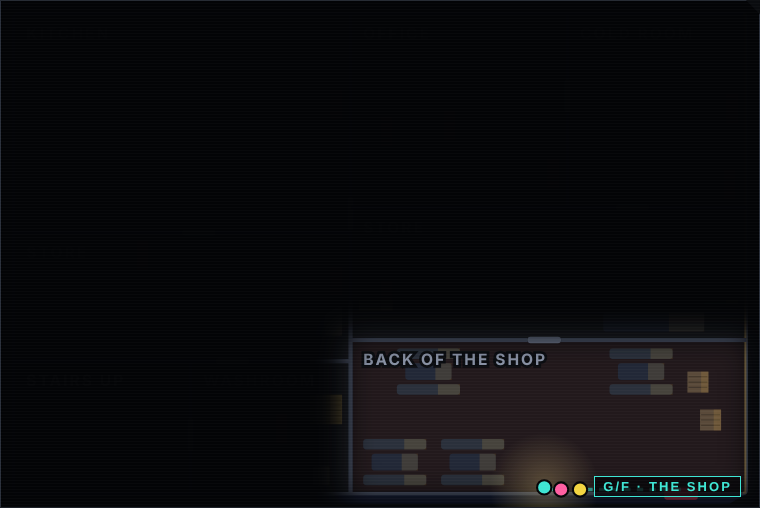
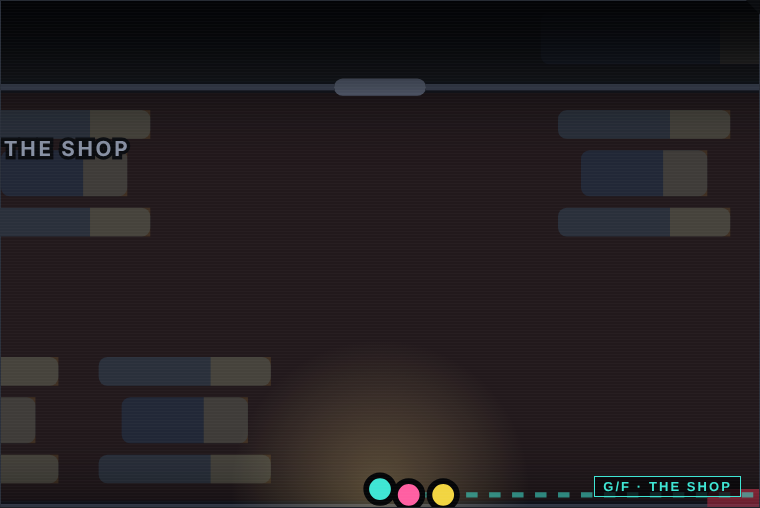
Mockup: close camera inside the dark floors
The camera sits on the crew, about one room in frame, kept inside the
building so its outline is never seen; a Whole floor toggle to compare.

diff --git a/docs/mockups/2026-11-23-dark-floors.html b/docs/mockups/2026-11-23-dark-floors.html
@@ -3151,11 +3151,15 @@ button.ffo-tag > span { color: var(--muted); font-size: 0.7rem; }
   .stills { display: grid; grid-template-columns: 1fr; gap: 12px; max-width: 1400px; margin-top: 24px; }
   @media (min-width: 900px) { .stills { grid-template-columns: repeat(3, 1fr); } }
   .stills figcaption { font: 12px monospace; color: #8a93a6; margin-bottom: 4px; }
+  .stage.close .sp-label { font-size: 3.6px; stroke-width: 1.2px; }
+  .stage.close .sp-wall { stroke-width: 1.1; }
+  .stage.close .sp-building { stroke-width: .8; }
+  .controls { margin: 10px 0; display: flex; gap: 8px; } .controls button.on { background: #3ee6d4; color: #050608; }
   .controls { margin: 10px 0; } .controls button { font: inherit; color: #3ee6d4; background: none; border: 1px solid #3ee6d4; padding: 10px 16px; min-height: 44px; cursor: pointer; }
 </style></head><body>
 <h1>Inside, in the dark · mockup</h1>
 <p class="lede">No street, no outside: the whole map is one floor. Every room is dark until the crew walks in. An open door gives a glimpse of the room beyond, and a hallway lights only where they've walked. At the stairs the map changes to the floor above. The floors are generated, the same from the same seed.</p>
-<div class="stage" id="stage">
+<div class="stage close" id="stage">
   <div class="floor on" data-floor="0"><svg class="siteplan" viewBox="0 0 360 240" role="img" aria-label="A floor of a building">
     <rect width="360" height="240" fill="#0b0d11"/>
     
@@ -3218,7 +3222,7 @@ button.ffo-tag > span { color: var(--muted); font-size: 0.7rem; }
   <div class="stamp" id="stamp">UP TO 1/F</div>
 </div>
 <div class="feed" id="feed"></div>
-<div class="controls"><button id="replay">Play again</button></div>
+<div class="controls"><button id="replay">Play again</button><button id="close" class="on">Close camera</button><button id="whole">Whole floor</button></div>
 <script>
 const FLOORS = [{"title":"G/F · the shop","rooms":[{"x":6,"y":6,"w":160,"h":104},{"x":6,"y":110,"w":160,"h":61},{"x":6,"y":171,"w":84,"h":63},{"x":90,"y":171,"w":76,"h":63},{"x":166,"y":6,"w":103,"h":92},{"x":269,"y":6,"w":85,"h":92},{"x":166,"y":98,"w":188,"h":63},{"x":166,"y":161,"w":188,"h":73}],"doors":[[166,101],[110,171],[94,110],[90,206],[300,98],[269,45],[258,161]],"route":[[323,232],[258,232],[258,169],[258,153],[258,101],[174,101],[158,101],[94,101],[94,102],[94,118],[110,118],[110,163],[110,179],[110,206],[98,206],[82,206],[28,206],[28,203]],"hall":-1},{"title":"1/F · upstairs","rooms":[{"x":6,"y":6,"w":84,"h":228},{"x":90,"y":142,"w":264,"h":32},{"x":90,"y":6,"w":89,"h":136},{"x":179,"y":6,"w":64,"h":136},{"x":243,"y":6,"w":111,"h":136},{"x":90,"y":174,"w":77,"h":60},{"x":167,"y":174,"w":89,"h":60},{"x":256,"y":174,"w":98,"h":60}],"doors":[[106,142],[213,142],[259,142],[106,174],[198,174],[311,174],[90,158]],"route":[[28,158],[82,158],[98,158],[311,158],[311,166],[311,182],[305,182],[305,204]],"hall":1}];
 const NS = 'http://www.w3.org/2000/svg';
@@ -3245,8 +3249,8 @@ function setup(i) {
   const torch = el('circle', { r: 26, fill: 'url(#dkt' + i + ')', style: 'mix-blend-mode:screen' }, layer);
   const tg = el('radialGradient', { id: 'dkt' + i }, defs);
   el('stop', { offset: 0, 'stop-color': '#f2d27a', 'stop-opacity': .28 }, tg); el('stop', { offset: 1, 'stop-color': '#f2d27a', 'stop-opacity': 0 }, tg);
-  const walked = el('polyline', { fill: 'none', stroke: '#3ee6d4', 'stroke-width': 1.6, 'stroke-opacity': .55, 'stroke-dasharray': '3 3' }, layer);
-  const crew = [0, 1, 2].map((k) => el('circle', { r: 3.4, fill: ['#3ee6d4', '#ff5fa2', '#f2d541'][k], stroke: '#050608', 'stroke-width': 1 }, layer));
+  const walked = el('polyline', { fill: 'none', stroke: '#3ee6d4', 'stroke-width': 0.9, 'stroke-opacity': .55, 'stroke-dasharray': '2 2' }, layer);
+  const crew = [0, 1, 2].map((k) => el('circle', { r: 2.4, fill: ['#3ee6d4', '#ff5fa2', '#f2d541'][k], stroke: '#050608', 'stroke-width': 1 }, layer));
   return { f, rooms, trail, glimpses, torch, walked, crew, seen: new Set(), glimpsed: new Set(), lastTrail: null };
 }
 
@@ -3266,7 +3270,7 @@ const LINES = [
 ];
 function step(S, d) {
   const p = along(S.f.route, d);
-  S.crew.forEach((c, k) => { const q = along(S.f.route, Math.max(0, d - k * 9)); c.setAttribute('cx', q[0]); c.setAttribute('cy', q[1]); });
+  S.crew.forEach((c, k) => { const q = along(S.f.route, Math.max(0, d - k * 6)); c.setAttribute('cx', q[0]); c.setAttribute('cy', q[1]); });
   S.torch.setAttribute('cx', p[0]); S.torch.setAttribute('cy', p[1]);
   const pts = []; for (let x = 0; x <= d; x += 4) pts.push(along(S.f.route, x)); pts.push(p);
   S.walked.setAttribute('points', pts.map((q) => q.join(',')).join(' '));
@@ -3283,6 +3287,18 @@ function step(S, d) {
   return p;
 }
 
+// the camera: close on the crew (a room or so on screen), eased; or the whole floor
+const VIEW = { w: 132, h: 88 };
+let close = true, cam = null;
+function aim(i, p, snap) {
+  const svg = document.querySelector('[data-floor="' + i + '"] svg');
+  if (!close) { svg.setAttribute('viewBox', '0 0 360 240'); return; }
+  if (!cam || snap) cam = [...p];
+  cam[0] += (p[0] - cam[0]) * 0.08; cam[1] += (p[1] - cam[1]) * 0.08;
+  if (snap) cam = [...p];
+  const v = [Math.min(Math.max(cam[0], 6 + VIEW.w / 2), 354 - VIEW.w / 2), Math.min(Math.max(cam[1], 6 + VIEW.h / 2), 234 - VIEW.h / 2)];
+  svg.setAttribute('viewBox', (v[0] - VIEW.w / 2) + ' ' + (v[1] - VIEW.h / 2) + ' ' + VIEW.w + ' ' + VIEW.h);
+}
 let run = 0;
 async function play() {
   const me = ++run;
@@ -3295,7 +3311,7 @@ async function play() {
       const tick = (now) => {
         if (me !== run) return;
         const d = Math.min(T, ((now - t0) / 1000) * SPEED);
-        const p = step(S, d);
+        const p = step(S, d); aim(i, p, d === 0);
         // a line when they step into a named room
         const svg = document.querySelector('[data-floor="' + i + '"] svg');
         for (const [name, text] of LINES) {
@@ -3316,9 +3332,14 @@ window.jumpTo = (i, share) => {
   run++;
   document.querySelectorAll('.floor').forEach((x) => x.classList.toggle('on', +x.dataset.floor === i));
   const S = setup(i); const T = total(S.f.route);
-  for (let d = 0; d <= T * share; d += 2) step(S, d);
+  let p; for (let d = 0; d <= T * share; d += 2) p = step(S, d);
+  aim(i, p, true);
 };
 document.getElementById('replay').onclick = play;
+const mode = (c) => { close = c; document.getElementById('stage').classList.toggle('close', c); document.getElementById('close').classList.toggle('on', c); document.getElementById('whole').classList.toggle('on', !c); cam = null; play(); };
+document.getElementById('close').onclick = () => mode(true);
+document.getElementById('whole').onclick = () => mode(false);
+window.setClose = (c) => { close = c; document.getElementById('stage').classList.toggle('close', c); };
 if (!location.hash.includes('still')) play();
 </script>
 </body></html>
